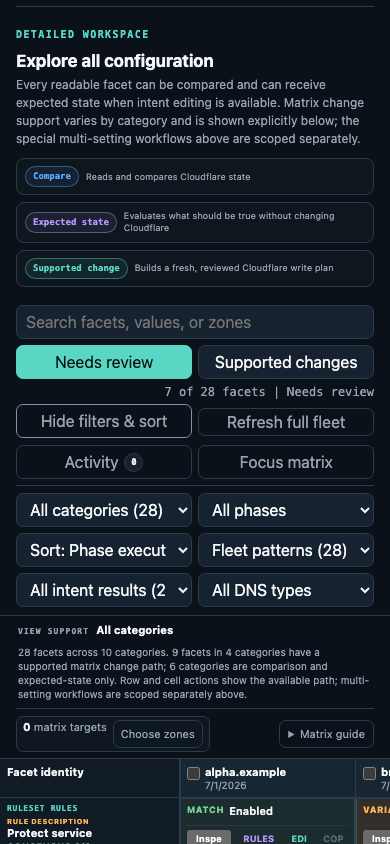
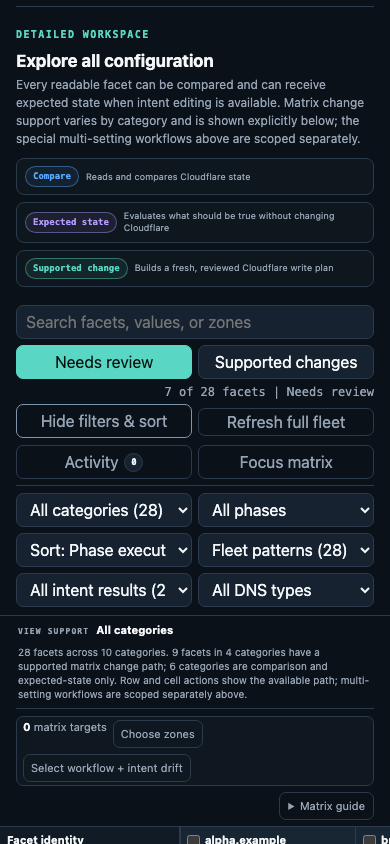
Document Cloudflare Fleet: Show intent alignment architecture
- Explain cell, row, and policy alignment scopes, supported adapters, complete live preflight, and safe blockers across the public guides
- Add an accessible intent-alignment architecture diagram and connect alignment to the reviewed write visualization
- Automate a synthetic alignment confirmation screenshot and require its public assets in publication checks

Changed region(s): [[0.0, 0.8626, 1.0, 1.0]]

diff --git a/docs/architecture.html b/docs/architecture.html
@@ -76,7 +76,7 @@
         <article class="card">
           <p class="card-accent">INTENT</p>
           <h3>Describe expected state</h3>
-          <p><code>src/fleet-intent.mjs</code> defines scopes, presence constraints, value constraints, acknowledgements, and coverage expectations. Evaluation remains descriptive until an operator opens a supported change path.</p>
+          <p><code>src/fleet-intent.mjs</code> defines scopes, presence constraints, value constraints, acknowledgements, and coverage expectations. <code>src/intent-alignment.mjs</code> turns effective exact and forbidden intent into deterministic adapter targets only when every selected drift cell is supported.</p>
         </article>
         <article class="card">
           <p class="card-accent">EXECUTION</p>
@@ -101,11 +101,26 @@
       </div>
     </section>
 
+    <section class="section" aria-labelledby="intent-alignment-heading">
+      <div class="section-heading">
+        <p class="eyebrow">Desired-state convergence</p>
+        <h2 id="intent-alignment-heading">Alignment is an explicit, all-or-nothing plan</h2>
+        <p>An operator can start from one drifting cell, an entire matrix row, or one saved policy's effective scope. Fleet composes layered exact expectations, preserves fields outside authored subsets, materializes zone-relative values, and maps forbidden presence to reversible removals where an adapter exists.</p>
+      </div>
+      <div class="diagram-frame">
+        <img src="diagrams/intent-alignment.svg" width="1400" height="720" alt="Intent alignment architecture showing cell, row, and policy scopes combining observed state, layered intent, and endpoint adapters before branching to a blocked safe stop, an already-aligned stop, or a full-account facet read and reviewed write flow.">
+      </div>
+      <div class="callout">
+        <strong>Fresh scope, complete decision</strong>
+        <p>The live preflight reads the relevant facet across every zone in the account, verifies that fleet membership is unchanged, reevaluates the latest saved intent, and refuses the entire row or policy action if any selected drift cell lacks a deterministic adapter. A cell action deliberately narrows only the action scope, not the account-wide membership and read check.</p>
+      </div>
+    </section>
+
     <section class="section" aria-labelledby="write-flow-heading">
       <div class="section-heading">
         <p class="eyebrow">Mutation lifecycle</p>
         <h2 id="write-flow-heading">A write is a verified state transition, not a button click</h2>
-        <p>The plan is rebuilt from fresh, narrowly scoped reads. A pending activity record is durable before the first mutation. Verification patches the visible matrix and cache only after the backend rereads the exact affected resources.</p>
+        <p>The plan is rebuilt from fresh reads scoped to the affected resource surface. Intent alignment widens that surface across the complete account so newly divergent zones cannot be skipped. A pending activity record is durable before the first mutation. Verification patches the visible matrix and cache only after the backend rereads the exact affected resources.</p>
       </div>
       <div class="diagram-frame">
         <img src="diagrams/write-flow.svg" width="1400" height="640" alt="Reviewed write flow from desired state through live read, plan, confirmation, pending journal, execution, verification, cache patch, and guarded undo.">

diff --git a/docs/index.html b/docs/index.html
@@ -80,14 +80,26 @@
         <article class="card">
           <p class="card-accent">02 / GOVERN</p>
           <h3>Define expected state</h3>
-          <p>Presence and value intent compose across all zones and fixed scopes. Exact acknowledgements stay tied to one observed value and become stale when reality changes.</p>
+          <p>Presence and value intent compose across all zones and fixed scopes. Exact acknowledgements stay tied to one observed value, while supported drift exposes a direct alignment review.</p>
         </article>
         <article class="card">
           <p class="card-accent">03 / CHANGE</p>
           <h3>Plan before execution</h3>
-          <p>Supported changes reread their dependencies, produce endpoint-specific plans, save a pending journal entry, execute in order, and verify the smallest authoritative surface.</p>
+          <p>Cell, row, policy, and workflow changes reread their dependencies, produce endpoint-specific plans, save a pending journal entry, execute in order, and verify the smallest authoritative surface.</p>
         </article>
       </div>
+    </section>
+
+    <section class="section" aria-labelledby="alignment-heading">
+      <div class="section-heading">
+        <p class="eyebrow">From intent to action</p>
+        <h2 id="alignment-heading">Review a complete convergence plan</h2>
+        <p>Exact and forbidden intent can produce first-class alignment actions on a policy, matrix row, or individual drifting cell. Fleet refreshes the latest intent and the relevant facet across the account, then blocks the whole selected scope if any drift cell is conflicting, ambiguous, or unsupported.</p>
+      </div>
+      <figure class="screenshot-frame">
+        <img src="screenshots/intent-alignment.png" width="1440" height="1000" alt="Cloudflare Fleet intent alignment confirmation for a synthetic zone setting, showing the target zone, live current and desired values, API endpoint, method, and review acknowledgement.">
+        <figcaption class="screenshot-caption">The synthetic fleet's row action enters the same confirmation, verification, activity, and guarded undo flow used by direct edits.</figcaption>
+      </figure>
     </section>
 
     <section class="section" aria-labelledby="architecture-heading">
@@ -143,7 +155,7 @@
       <div class="image-pair">
         <figure class="screenshot-frame">
           <img src="screenshots/fleet-intent.png" width="1440" height="1000" alt="Fleet intent workspace with policies, groups, coverage, acknowledgements, and an evaluation summary.">
-          <figcaption class="screenshot-caption">Fleet intent stays separate from observed configuration and never changes Cloudflare by itself.</figcaption>
+          <figcaption class="screenshot-caption">Saving intent remains descriptive; the separate Review alignment action starts a fresh, confirmable Cloudflare plan.</figcaption>
         </figure>
         <figure class="screenshot-frame mobile-frame">
           <img src="screenshots/mobile-dashboard.png" width="390" height="844" alt="Cloudflare Fleet responsive matrix controls and the first synthetic zone columns on a phone-sized viewport.">

diff --git a/docs/security.html b/docs/security.html
@@ -109,6 +109,7 @@
       <ul>
         <li>Read-only mode removes interface controls and causes the backend to reject mutations.</li>
         <li>A supported action declares the exact live facts it must reread before planning.</li>
+        <li>Intent alignment rereads the relevant facet across every account zone and blocks a row or policy action unless every selected drift cell has a deterministic adapter.</li>
         <li>Endpoint adapters allowlist writable fields and strip server-managed identifiers.</li>
         <li>The operator reviews target zones, current values, desired values, HTTP methods, endpoints, and request bodies.</li>
         <li>A durable pending record exists before the first API mutation.</li>

diff --git a/README.md b/README.md
@@ -15,6 +15,7 @@ Neither mode exposes the Cloudflare API token to browser JavaScript. Hosted conf
 
 - Compares normalized configuration across every selected zone without hiding raw source values
 - Separates observed differences from saved fleet intent, acknowledged exceptions, and expected coverage gaps
+- Turns supported exact and forbidden intent into first-class cell, row, and policy alignment reviews
 - Audits core fleet posture in Markdown, JSON, or self-contained HTML, with an optional deep account and endpoint pass
 - Plans direct settings, DNS, DNSSEC, Email Routing, and ruleset changes through endpoint-specific adapters
 - Displays targets, before and after values, methods, endpoints, and request bodies before a write
@@ -81,7 +82,13 @@ Core findings cover inventory gaps, fleet intent, DNSSEC transitions, Email Rout
 
 Fleet intent defines presence and value constraints independently. Broader groups act as baselines, contained groups refine them, and partial overlaps remain peers. Exact acknowledgements bind one policy, zone, and observed normalized value, then become stale if that context changes. Saving intent evaluates drift but never writes Cloudflare.
 
-An actionable control derives the smallest live read set needed to rebuild its plan. Endpoint adapters strip server fields, preserve target-specific identity, and refuse unsupported shapes. The confirmation contains the live validation time, affected zones, current and desired values, methods, endpoints, and payloads. A pending activity record is durable before execution. Verification rereads exact affected resources and patches the matrix and persistent snapshot once.
+Review alignment appears on a supported policy, matrix row, and individual drifting cell. Exact intent can edit supported zone settings, DNS records, DNSSEC status, API-managed Email Routing rules, redirects, and ruleset rules, and it can fill missing DNS records and portable rules from a matching fleet source. Forbidden intent can remove supported DNS records and rules through reversible adapters. Conflicts, must-differ choices, required values without an exact expectation, missing portable sources, generated resources, and unsupported endpoint shapes stay visibly blocked.
+
+A row or policy review is all-or-nothing: every unacknowledged drift cell in that action scope must have a deterministic adapter. A cell review deliberately narrows the requested change to one zone. Both forms reread the relevant facet across every account zone, reject changed fleet membership or incomplete reads, reevaluate the latest saved intent, and only then build the confirmation.
+
+![Cloudflare Fleet intent alignment review using a synthetic example fleet](docs/screenshots/intent-alignment.png)
+
+Endpoint adapters strip server fields, preserve target-specific identity, and refuse unsupported shapes. The confirmation contains the live validation time, affected zones, current and desired values, methods, endpoints, and payloads. A pending activity record is durable before execution. Verification rereads exact affected resources and patches the matrix and persistent snapshot once.
 
 Clearing or bypassing the inventory cache never removes intent or activity. Hosted sessions use transactional D1 state; local sessions use revisioned sections in the ignored account-scoped state file.
 
